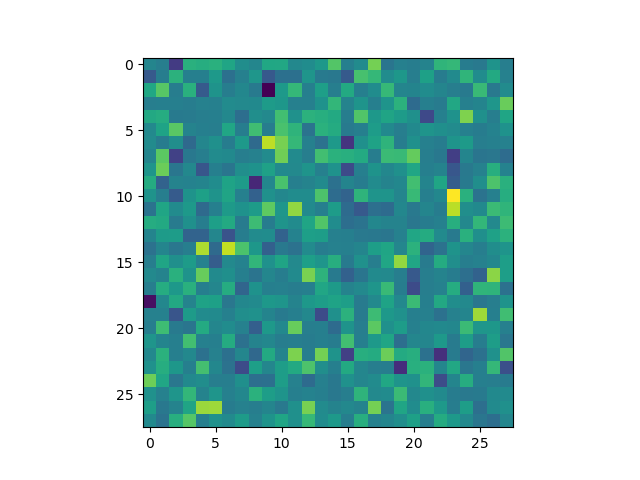
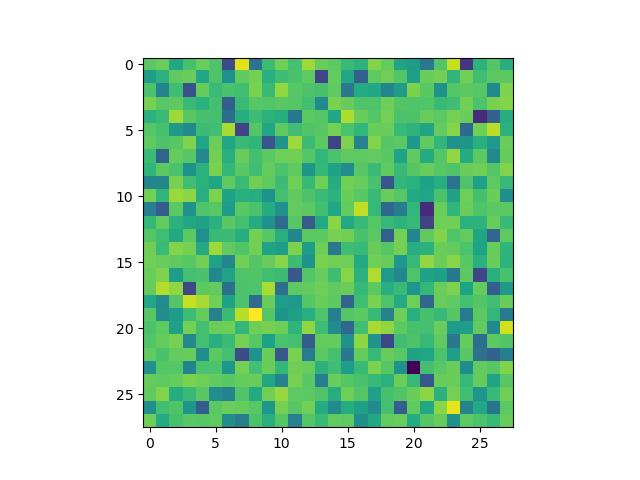
wavelet attempts

diff --git a/src/models.py b/src/models.py
@@ -3,9 +3,14 @@ import pytorch_lightning as pl
 from torch import nn
 import torch.nn.functional as F
 from torch.distributions import MultivariateNormal
-import pywt
+from pytorch_wavelets import DWTForward, DWTInverse
+import math
 
-torch.manual_seed(241)
+def stack_wavedec(yl, yh):
+    n, c = yl.shape[0], yl.shape[1]
+    lis = [yl.view(n, c, -1)] + [e.view(n, c, -1) for e in yh]
+    stack = torch.cat(lis, dim=-1)
+    return stack
 
 class FeatureExtractor(nn.Module):
     def __init__(self, img_dim, input_channels, output_channels, t, k, act=nn.LeakyReLU(), pool=nn.MaxPool2d(kernel_size=2, stride=2)):
@@ -30,6 +35,29 @@ class FeatureExtractor(nn.Module):
         self.k = k
         self.t = t
         self.n_channels = output_channels
+
+    def forward(self, x):
+        z = self.model(x)
+        mu = torch.reshape(z[..., :self.k * self.t], (-1, self.k, self.t))
+        sigma = torch.reshape(z[..., self.k * self.t:-self.k], (-1, self.k, self.t, self.t))
+        sigma = torch.matmul(torch.transpose(sigma, -2, -1), sigma) / 2
+        pi = torch.reshape(z[..., -self.k:], (-1, self.k))
+        pi = torch.softmax(pi, dim=-1)
+        return mu, sigma, pi
+
+class WaveletFeatureModel(nn.Module):
+    def __init__(self, input_dim, hidden_dim, output_channels, n_layers, k, t, act=nn.LeakyReLU()):
+        super().__init__()
+        layers = [nn.Linear(input_dim, hidden_dim), act]
+
+        for i in range(n_layers):
+            layers.append(nn.Linear(hidden_dim, hidden_dim))
+            layers.append(act)
+
+        layers.append(nn.Linear(hidden_dim, output_channels * k * (t * t + t + 1)))
+        self.model = nn.Sequential(*layers)
+        self.k = k
+        self.t = t
 
     def forward(self, x):
         z = self.model(x)
@@ -67,64 +95,76 @@ class MixtureModel(nn.Module):
         return samples
 
 class ImageGFN(pl.LightningModule):
-    def __init__(self, n_channels, img_dim, output_dim, num_gaussians, lr=1e-3, uniform_PB=True):
+    def __init__(self, n_channels, img_dim, output_dim, num_gaussians, lr=1e-3, wavelet=False):
         super().__init__()
-        self.uniform_PB = uniform_PB
-        self.step_size = output_dim
         self.img_dim = img_dim
+        self.step_size = output_dim
         self.k = num_gaussians
         self.n_channels = n_channels
-        self.feature_model = FeatureExtractor(img_dim, n_channels + 2, n_channels, self.step_size, self.k)
+        self.wavelet = wavelet
+
+        if wavelet:
+            self.max_level = int(math.log2(self.img_dim))
+            self.ffm = DWTForward(J=self.max_level, wave='haar')
+            self.ifm = DWTInverse(wave='haar')
+
+            yl, yh = self.ffm(torch.zeros((1, 1, img_dim, img_dim)))
+            self.y_sizes = [len(yl.flatten())] + [len(e.flatten()) for e in yh]
+            self.wave_sizes = [yl.shape] + [e.shape for e in yh]
+            dummy_stack = stack_wavedec(yl, yh)
+            self.y_len = dummy_stack.shape[-1]
+
+            self.feature_model = WaveletFeatureModel(self.y_len, 1024, self.n_channels, 5, self.k, self.step_size)
+        else:
+            self.feature_model = FeatureExtractor(img_dim, n_channels + 2, n_channels, self.step_size, self.k)
+
         self.lr = lr
         self.save_hyperparameters()
+
+    def unstack_wavedec(self, y):
+        ys = torch.split(y, self.y_sizes, dim=-1)
+        ys = [e.view(self.wave_sizes[i]) for i, e in enumerate(ys)]
+        return self.ifm((ys[0], ys[1:]))
 
     def forward(self):
         """
         Sampling
         :return:
         """
-        out = torch.zeros((1, self.n_channels, self.img_dim, self.img_dim), device=self.device)
-        vis = torch.zeros((1, 1, self.img_dim, self.img_dim), device=self.device)
+        if self.wavelet:
+            out = torch.zeros((1, self.n_channels, self.y_len), device=self.device)
+            vis = torch.zeros((1, 1, self.y_len), device=self.device)
+        else:
+            out = torch.zeros((1, self.n_channels, self.img_dim, self.img_dim), device=self.device)
+            vis = torch.zeros((1, 1, self.img_dim, self.img_dim), device=self.device)
+
         indices = torch.nonzero(vis == 0, as_tuple=True)
-        order = torch.randperm(self.img_dim * self.img_dim, device=self.device)
+        order = torch.randperm(len(vis.flatten()), device=self.device)
 
         if len(order) % self.step_size != 0:
             pad_length = self.step_size - (len(order) % self.step_size) # in case we can't evenly divide, add from the beginning again
             order = torch.cat([order, order[:pad_length]])
 
         order = order.view((-1, self.step_size))
+        selected_indices = [dim[order[i]] for dim in indices for i in range(order.shape[0])]
 
         for i in range(order.shape[0]):
-            selected_indices = [dim[order[i]] for dim in indices]
             take = torch.zeros(vis.shape, device=self.device)
-            take[selected_indices] = 1
+            take[selected_indices[i]] = 1
             img = torch.cat([out, vis, take], dim=1)
             mu, sigma, pi = self.feature_model(img)
             sigma *= torch.eye(self.step_size, device=self.device)
             gmm = MixtureModel(mu, sigma, pi)
-            out[selected_indices] = gmm(1).squeeze(0)
-            vis[selected_indices] = 1
+            out[selected_indices[i]] = gmm(1).squeeze(0)
+            vis[selected_indices[i]] = 1
+
+        if self.wavelet:
+            out = self.unstack_wavedec(out)
 
         return (out.squeeze(0) + 1) * 0.5
 
-    def likelihood(self, x, batch_idx):
-        x = x * 2 - 1
-
-        batch_size = x.shape[0]
-        eps = self.step_size / (self.img_dim * self.img_dim)
-        p = torch.rand((batch_size, 1, 1, 1), device=self.device) * (1 - eps) + eps
-        vis = (torch.rand((batch_size, 1, self.img_dim, self.img_dim), device=self.device) > p).float()
-
-        x_hat = torch.masked_fill(x, vis == 0, -1)
-        max_steps = (2 * self.img_dim * self.img_dim) // self.step_size
-        ll = 0
-
-        for i in range(max_steps):
-            num_left = int(torch.sum(vis == 0))
-
-            if num_left == 0:
-                break
-
+    def training_take(self, vis, num_left):
+        with torch.no_grad():
             selection = torch.randperm(num_left, device=self.device)[:self.step_size]
             indices_left = torch.nonzero(vis == 0, as_tuple=True)
             selected_indices = [row[selection] for row in indices_left]
@@ -139,6 +179,62 @@ class ImageGFN(pl.LightningModule):
             take = torch.zeros(vis.shape, device=self.device)
             take[selected_indices] = 1
 
+        return take, selected_indices
+
+    def wavelet_likelihood(self, x, batch_idx):
+        yl, yh = self.ffm(x)
+        y = stack_wavedec(yl, yh)
+
+        with torch.no_grad():
+            batch_size = x.shape[0]
+            eps = self.step_size / self.y_len
+            p = torch.rand((batch_size, 1, 1), device=self.device) * (1 - eps) + eps
+            vis = (torch.rand((batch_size, 1, self.y_len), device=self.device) > p).float()
+
+        y_hat = torch.masked_fill(y, vis == 0, -1)
+        max_steps = (2 * self.y_len) // self.step_size
+        ll = 0
+
+        for i in range(max_steps):
+            num_left = int(torch.sum(vis == 0))
+
+            if num_left == 0:
+                break
+
+            take, selected_indices = self.training_take(vis, num_left)
+            inp = torch.cat([y_hat, vis, take], dim=1)
+            mu, sigma, pi = self.feature_model(inp)
+            sigma *= torch.eye(self.step_size, device=self.device)  # Diagonal for now - think of workaround later
+            gmm = MixtureModel(mu, sigma, pi)
+
+            y_true = y[selected_indices]  # ground truth
+            ll += gmm.density(y_true)
+
+            y_hat[selected_indices] = y_true
+            vis[selected_indices] = 1
+
+        return -ll
+
+    def likelihood(self, x, batch_idx):
+        x = x * 2 - 1
+
+        with torch.no_grad():
+            batch_size = x.shape[0]
+            eps = self.step_size / (self.img_dim * self.img_dim)
+            p = torch.rand((batch_size, 1, 1, 1), device=self.device) * (1 - eps) + eps
+            vis = (torch.rand((batch_size, 1, self.img_dim, self.img_dim), device=self.device) > p).float()
+
+        x_hat = torch.masked_fill(x, vis == 0, -1)
+        max_steps = (2 * self.img_dim * self.img_dim) // self.step_size
+        ll = 0
+
+        for i in range(max_steps):
+            num_left = int(torch.sum(vis == 0))
+
+            if num_left == 0:
+                break
+
+            take, selected_indices = self.training_take(vis, num_left)
             inp = torch.cat([x_hat, vis, take], dim=1)
             mu, sigma, pi = self.feature_model(inp)  # k * t, k * t * t, k
             sigma *= torch.eye(self.step_size, device=self.device)  # Diagonal for now - think of workaround later
@@ -154,7 +250,7 @@ class ImageGFN(pl.LightningModule):
 
     def training_step(self, batch, batch_idx):
         x, _ = batch
-        loss = self.likelihood(x, batch_idx)
+        loss = self.wavelet_likelihood(x, batch_idx) if self.wavelet else self.likelihood(x, batch_idx)
 
         if loss is None:
             return None
@@ -172,47 +268,9 @@ class ImageGFN(pl.LightningModule):
 
     def configure_optimizers(self):
         optim = torch.optim.Adam(self.parameters(), lr=self.lr)
-        scheduler = torch.optim.lr_scheduler.ReduceLROnPlateau(optim, patience=2)
+        scheduler = torch.optim.lr_scheduler.ReduceLROnPlateau(optim, patience=10)
         return {
             "optimizer": optim,
             "lr_scheduler": scheduler,
             "monitor": "train_loss"
         }
-
-        # loss_TB = torch.zeros(batch_size)
-        # dones = torch.full(batch_size, False)
-        # states = torch.zeros((batch_size, self.h_dim))
-        # visited = torch.full((batch_size, self.h_dim), False)
-        # actions = None
-        #
-        # max_steps = 1e8
-        #
-        # for i in range(max_steps):
-        #     if torch.all(dones):
-        #         break
-        #
-        #     non_terminal_states = states[~dones]
-        #     current_batch_size = non_terminal_states.shape[0]
-        #     logits = self.model(non_terminal_states)
-        #     PB_logits, PF_logits = torch.chunk(logits, 2)
-        #
-        #     # Backward Policy
-        #     if self.uniform_PB:
-        #         PB_logits *= 0
-        #
-        #     log_PB = -torch.log_softmax(torch.masked_fill(PB_logits, non_terminal_states == 0, -torch.inf), dim=1)
-        #
-        #     if actions is not None:
-        #         loss_TB[~dones] += torch.gather(log_PB, dim=1, index=actions[actions != self.h_dim].unsqueeze(1)).squeeze(1)
-        #
-        #     # Forward Policy
-        #     log_PF = -torch.log_softmax(torch.masked_fill(PF_logits, visited, -torch.inf), dim=1)
-        #     tau = 1
-        #     sample_probs = torch.softmax(log_PF / tau, dim=-1)
-        #     actions = torch.multinomial(sample_probs, 1)
-        #     loss_TB[~dones] += torch.gather(log_PF, dim=1, index=actions).squeeze(1)
-        #
-        #     # Terminate states
-        #     terminates = None
-        #
-        #     dones[~dones] |= terminates

diff --git a/src/main.py b/src/main.py
@@ -1,12 +1,13 @@
+import numpy as np
 from torchvision.datasets import MNIST
 from torchvision.transforms import *
 import matplotlib.pyplot as plt
 import torch
-import pywt
 from models import ImageGFN
 import pytorch_lightning as pl
 from pytorch_lightning.loggers import WandbLogger
-from torch.utils.data import DataLoader
+from pytorch_lightning.callbacks import LearningRateMonitor
+from torch.utils.data import DataLoader, Subset
 import wandb
 
 # CHANGE API KEY
@@ -14,18 +15,29 @@ wandb.login(key='e9d0f0abd4a0b92aa26694bdecd67aa7d57b76d6')
 
 device = torch.device("cuda" if torch.cuda.is_available() else "cpu")
 data = MNIST(root='./datasets/MNIST', train=True, download=True, transform=ToTensor())
-train_loader = DataLoader(data, batch_size=2, num_workers=4)
+train_data = Subset(data, list(np.random.choice(60000, 5000, replace=False)))
+train_loader = DataLoader(train_data, batch_size=1, num_workers=4)
 
-model = ImageGFN(n_channels=1, img_dim=28, output_dim=8, num_gaussians=8, lr=8*1e-3)
+model = ImageGFN(
+    n_channels=1,
+    img_dim=28,
+    output_dim=48,
+    num_gaussians=96,
+    lr=8*1e-3,
+    wavelet=False
+)
 wandb_logger = WandbLogger(project="gflow_images", log_model=True)
+lr_monitor = LearningRateMonitor(logging_interval='epoch')
 trainer = pl.Trainer(
     overfit_batches=10,
     max_epochs=100,
     logger=wandb_logger,
     accelerator="gpu",
     auto_lr_find='lr',
-    gradient_clip_val=0.9,
-    gradient_clip_algorithm="norm"
+    # gradient_clip_val=0.9,
+    # gradient_clip_algorithm="norm",
+    accumulate_grad_batches=2,
+    callbacks=[lr_monitor]
 )
 trainer.fit(model=model, train_dataloaders=train_loader)
 x = model().cpu().numpy()
